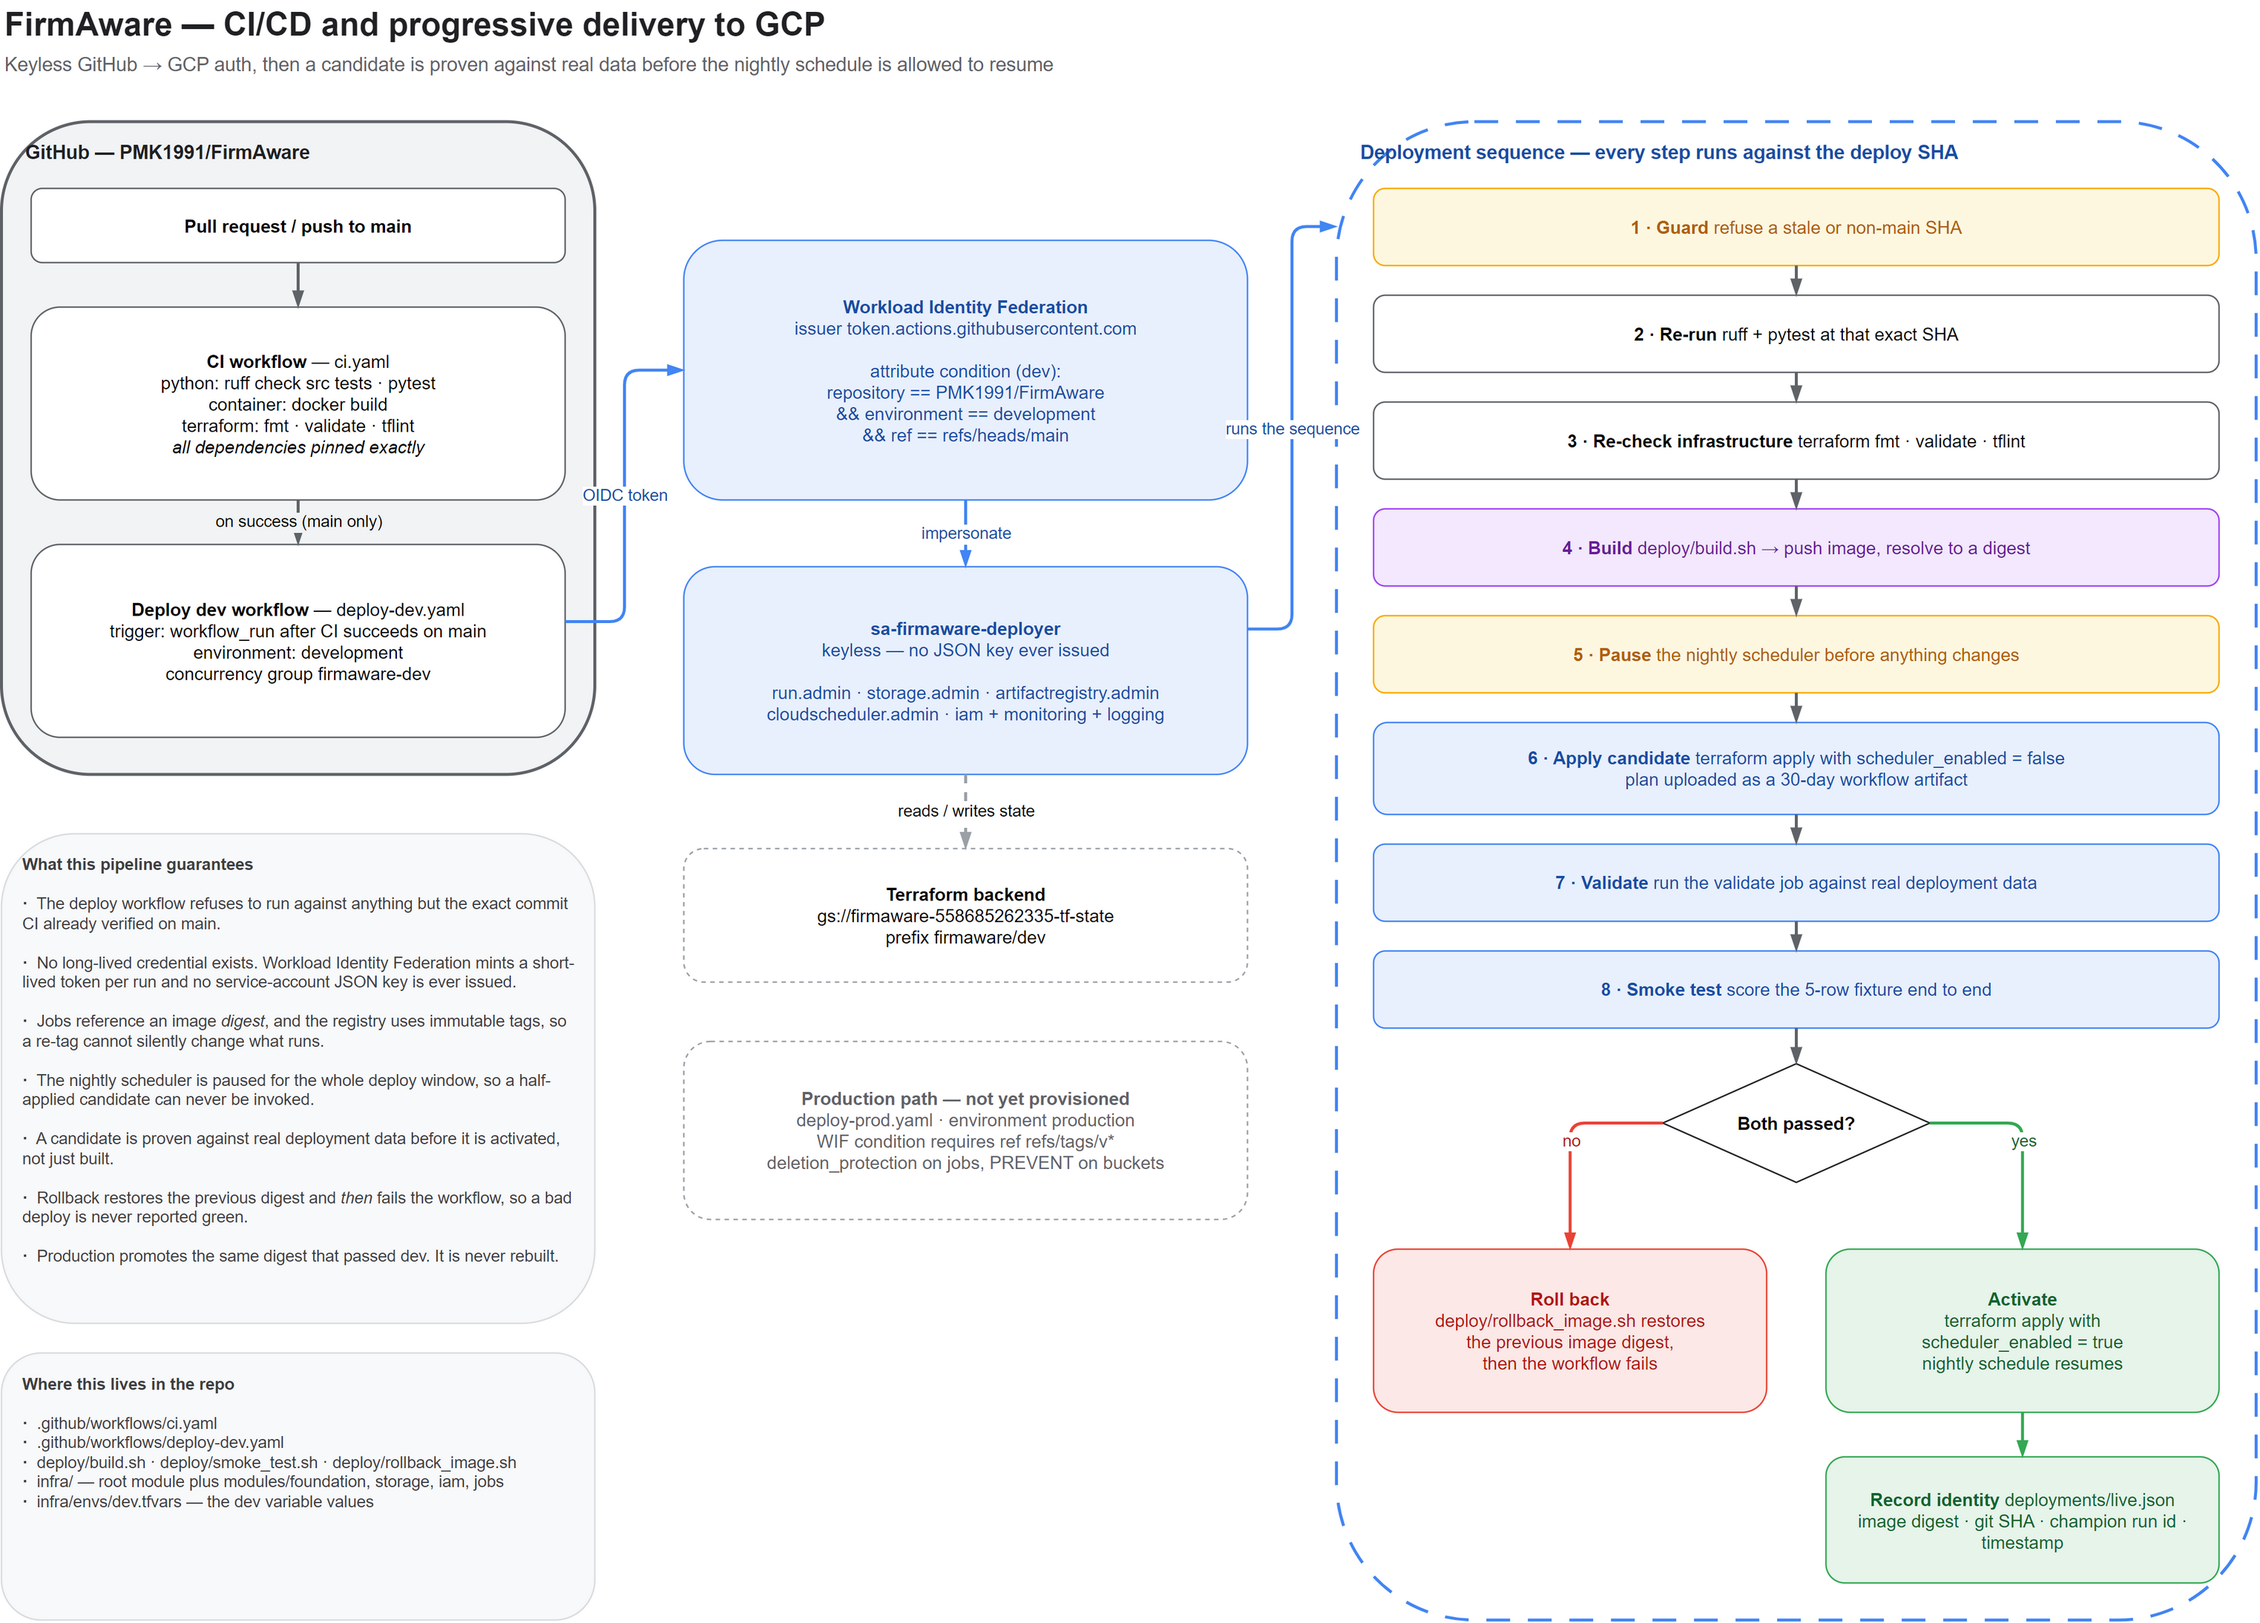
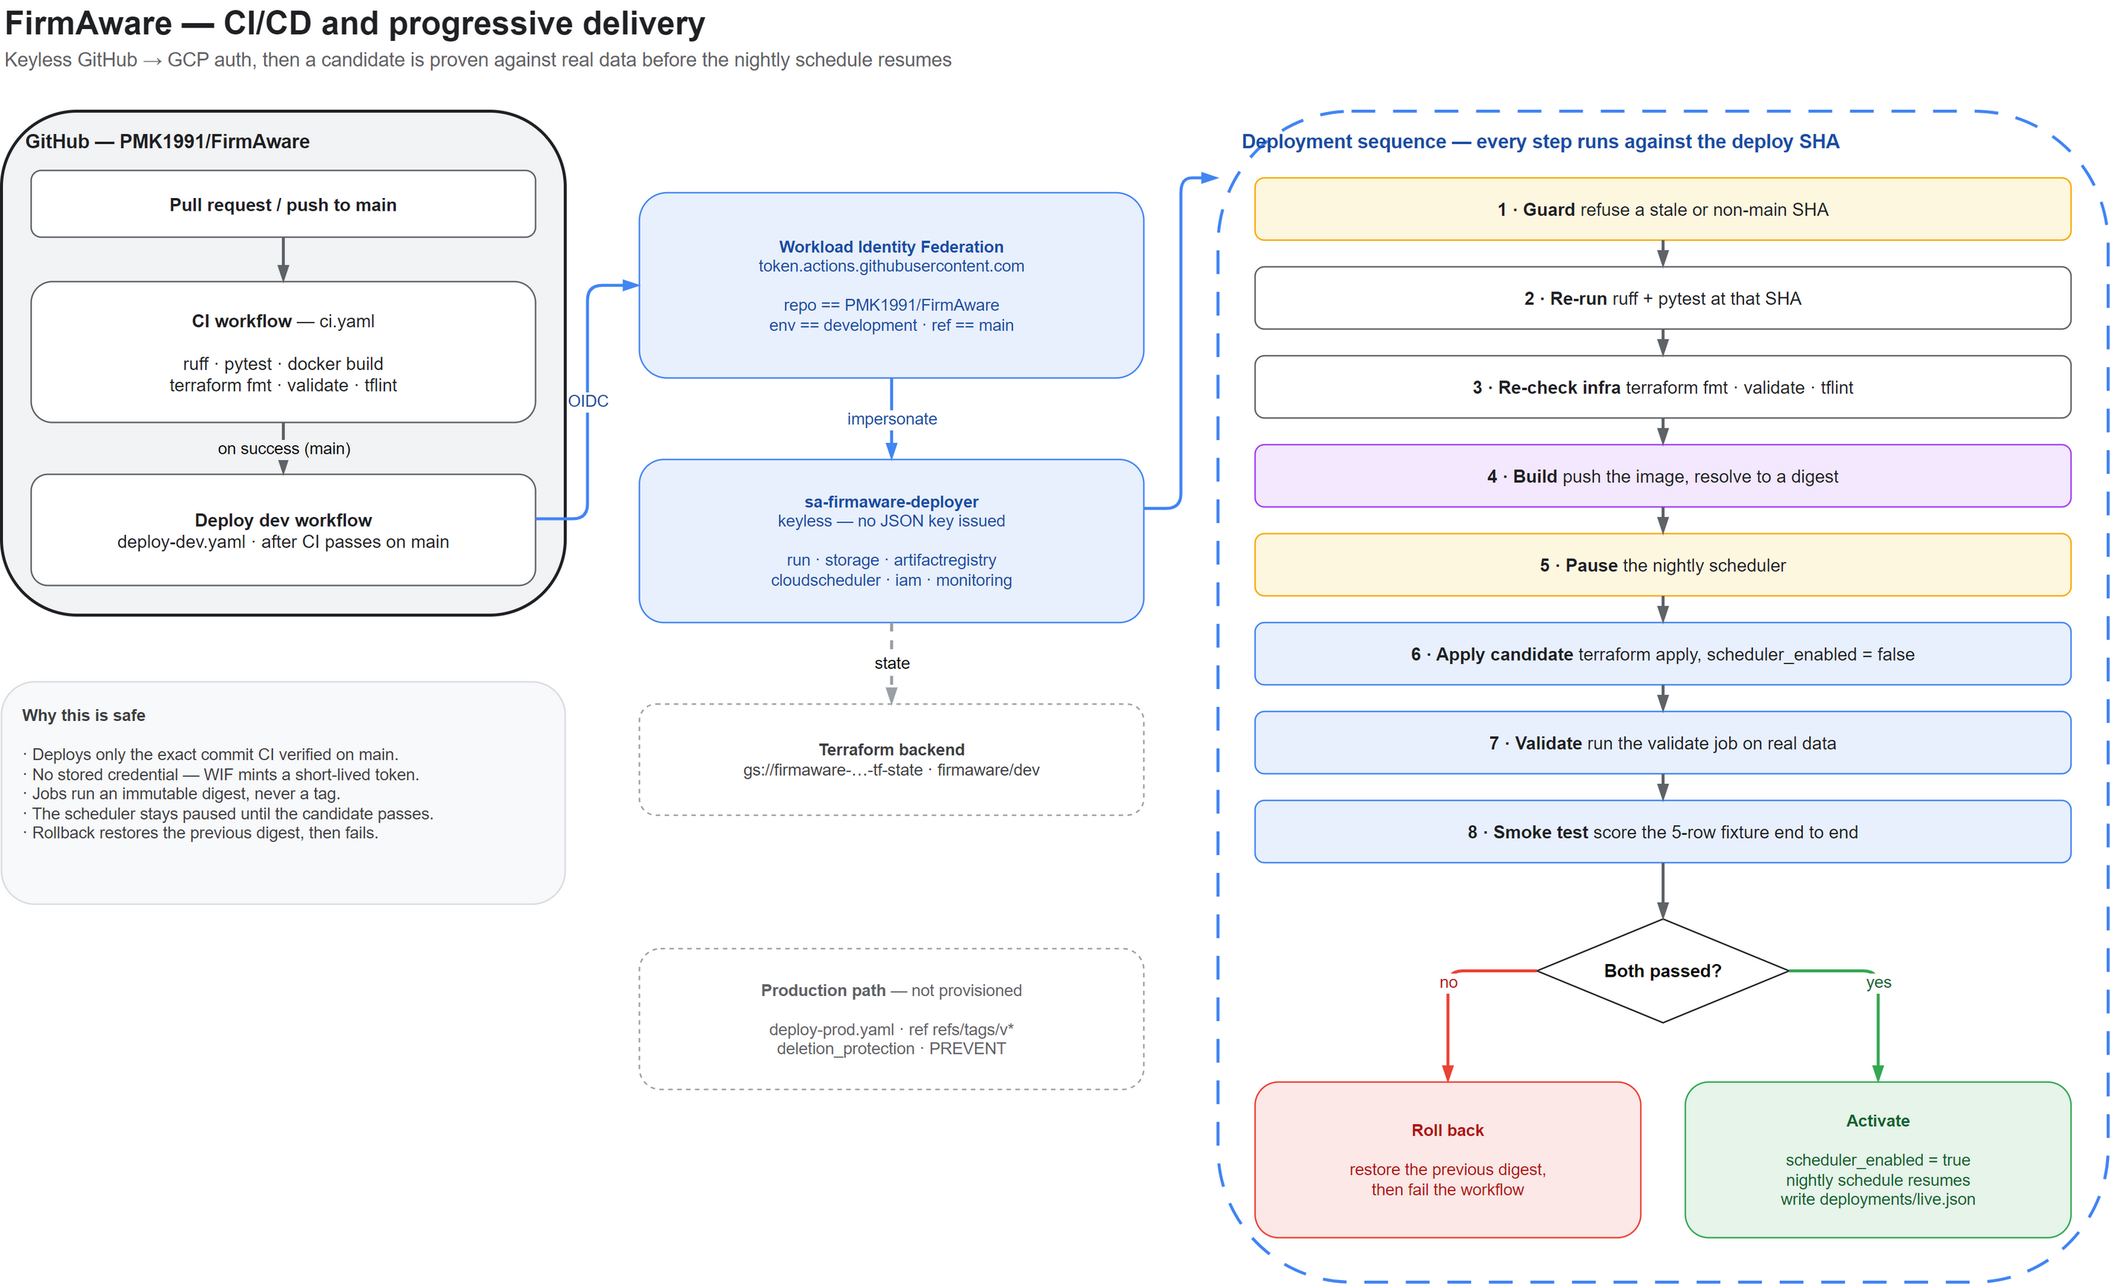
Trim the architecture diagram and fit every label inside its box
The first pass carried too much detail: full resource specs on every node,
multi-line edge labels, and a guarantees panel long enough to compete with
the diagram itself. Several labels also overflowed their boxes.

Cuts the text to what a reader needs to follow the flow, drops the
retries/timeout minutiae and the redundant Terraform state bucket from the
runtime page, and folds the live.json step into the activate box.

Every box is now sized with vertical slack against its wrapped content, and
the two labels that had no room to render cleanly are gone: the observability
edge is a short hop into an adjacent column, and the deployer-to-sequence
arrow is unambiguous without a caption.

diff --git a/README.md b/README.md
@@ -255,26 +255,20 @@ platforms.
 
 ### Deployed GCP architecture
 
-The table above is the portable design. The diagrams below are the concrete
-deployment that is live in GCP project `firmaware` (`us-central1`, `dev`), drawn
-from the Terraform in `infra/` and the workflows in `.github/workflows/`.
+The table above is the portable design. These two diagrams are the concrete
+deployment live in project `firmaware` (`us-central1`, `dev`), taken from
+`infra/` and `.github/workflows/`. The editable source is
+[`docs/architecture/firmaware-gcp-architecture.drawio`](docs/architecture/firmaware-gcp-architecture.drawio);
+re-export the PNGs whenever it changes.
 
-The editable source is
-[`docs/architecture/firmaware-gcp-architecture.drawio`](docs/architecture/firmaware-gcp-architecture.drawio),
-a two-page diagrams.net file. Open it at [app.diagrams.net](https://app.diagrams.net)
-or in the draw.io desktop app. The PNGs below are exported from it, so regenerate
-them whenever the source changes.
-
-**Page 1 — runtime architecture.** Cloud Scheduler triggers the nightly
-`predict` job; the three Cloud Run Jobs share one runtime service account but
-each bucket grants only the roles that job needs; the Streamlit page sits outside
-GCP and reads scores only.
+Cloud Scheduler triggers the nightly `predict` job. The three Cloud Run Jobs
+share one runtime identity, but each bucket grants only the roles that job
+needs, and the Streamlit page sits outside GCP reading scores only.
 
 ![GCP runtime architecture](docs/images/gcp-runtime-architecture.png)
 
-**Page 2 — CI/CD and progressive delivery.** GitHub authenticates to GCP without
-a stored key, then a candidate image is applied with the scheduler paused and is
-proven against real data before the nightly schedule is allowed to resume.
+GitHub authenticates without a stored key, then a candidate is applied with the
+scheduler paused and proven against real data before the schedule resumes.
 
 ![GCP CI/CD architecture](docs/images/gcp-cicd-architecture.png)
 
